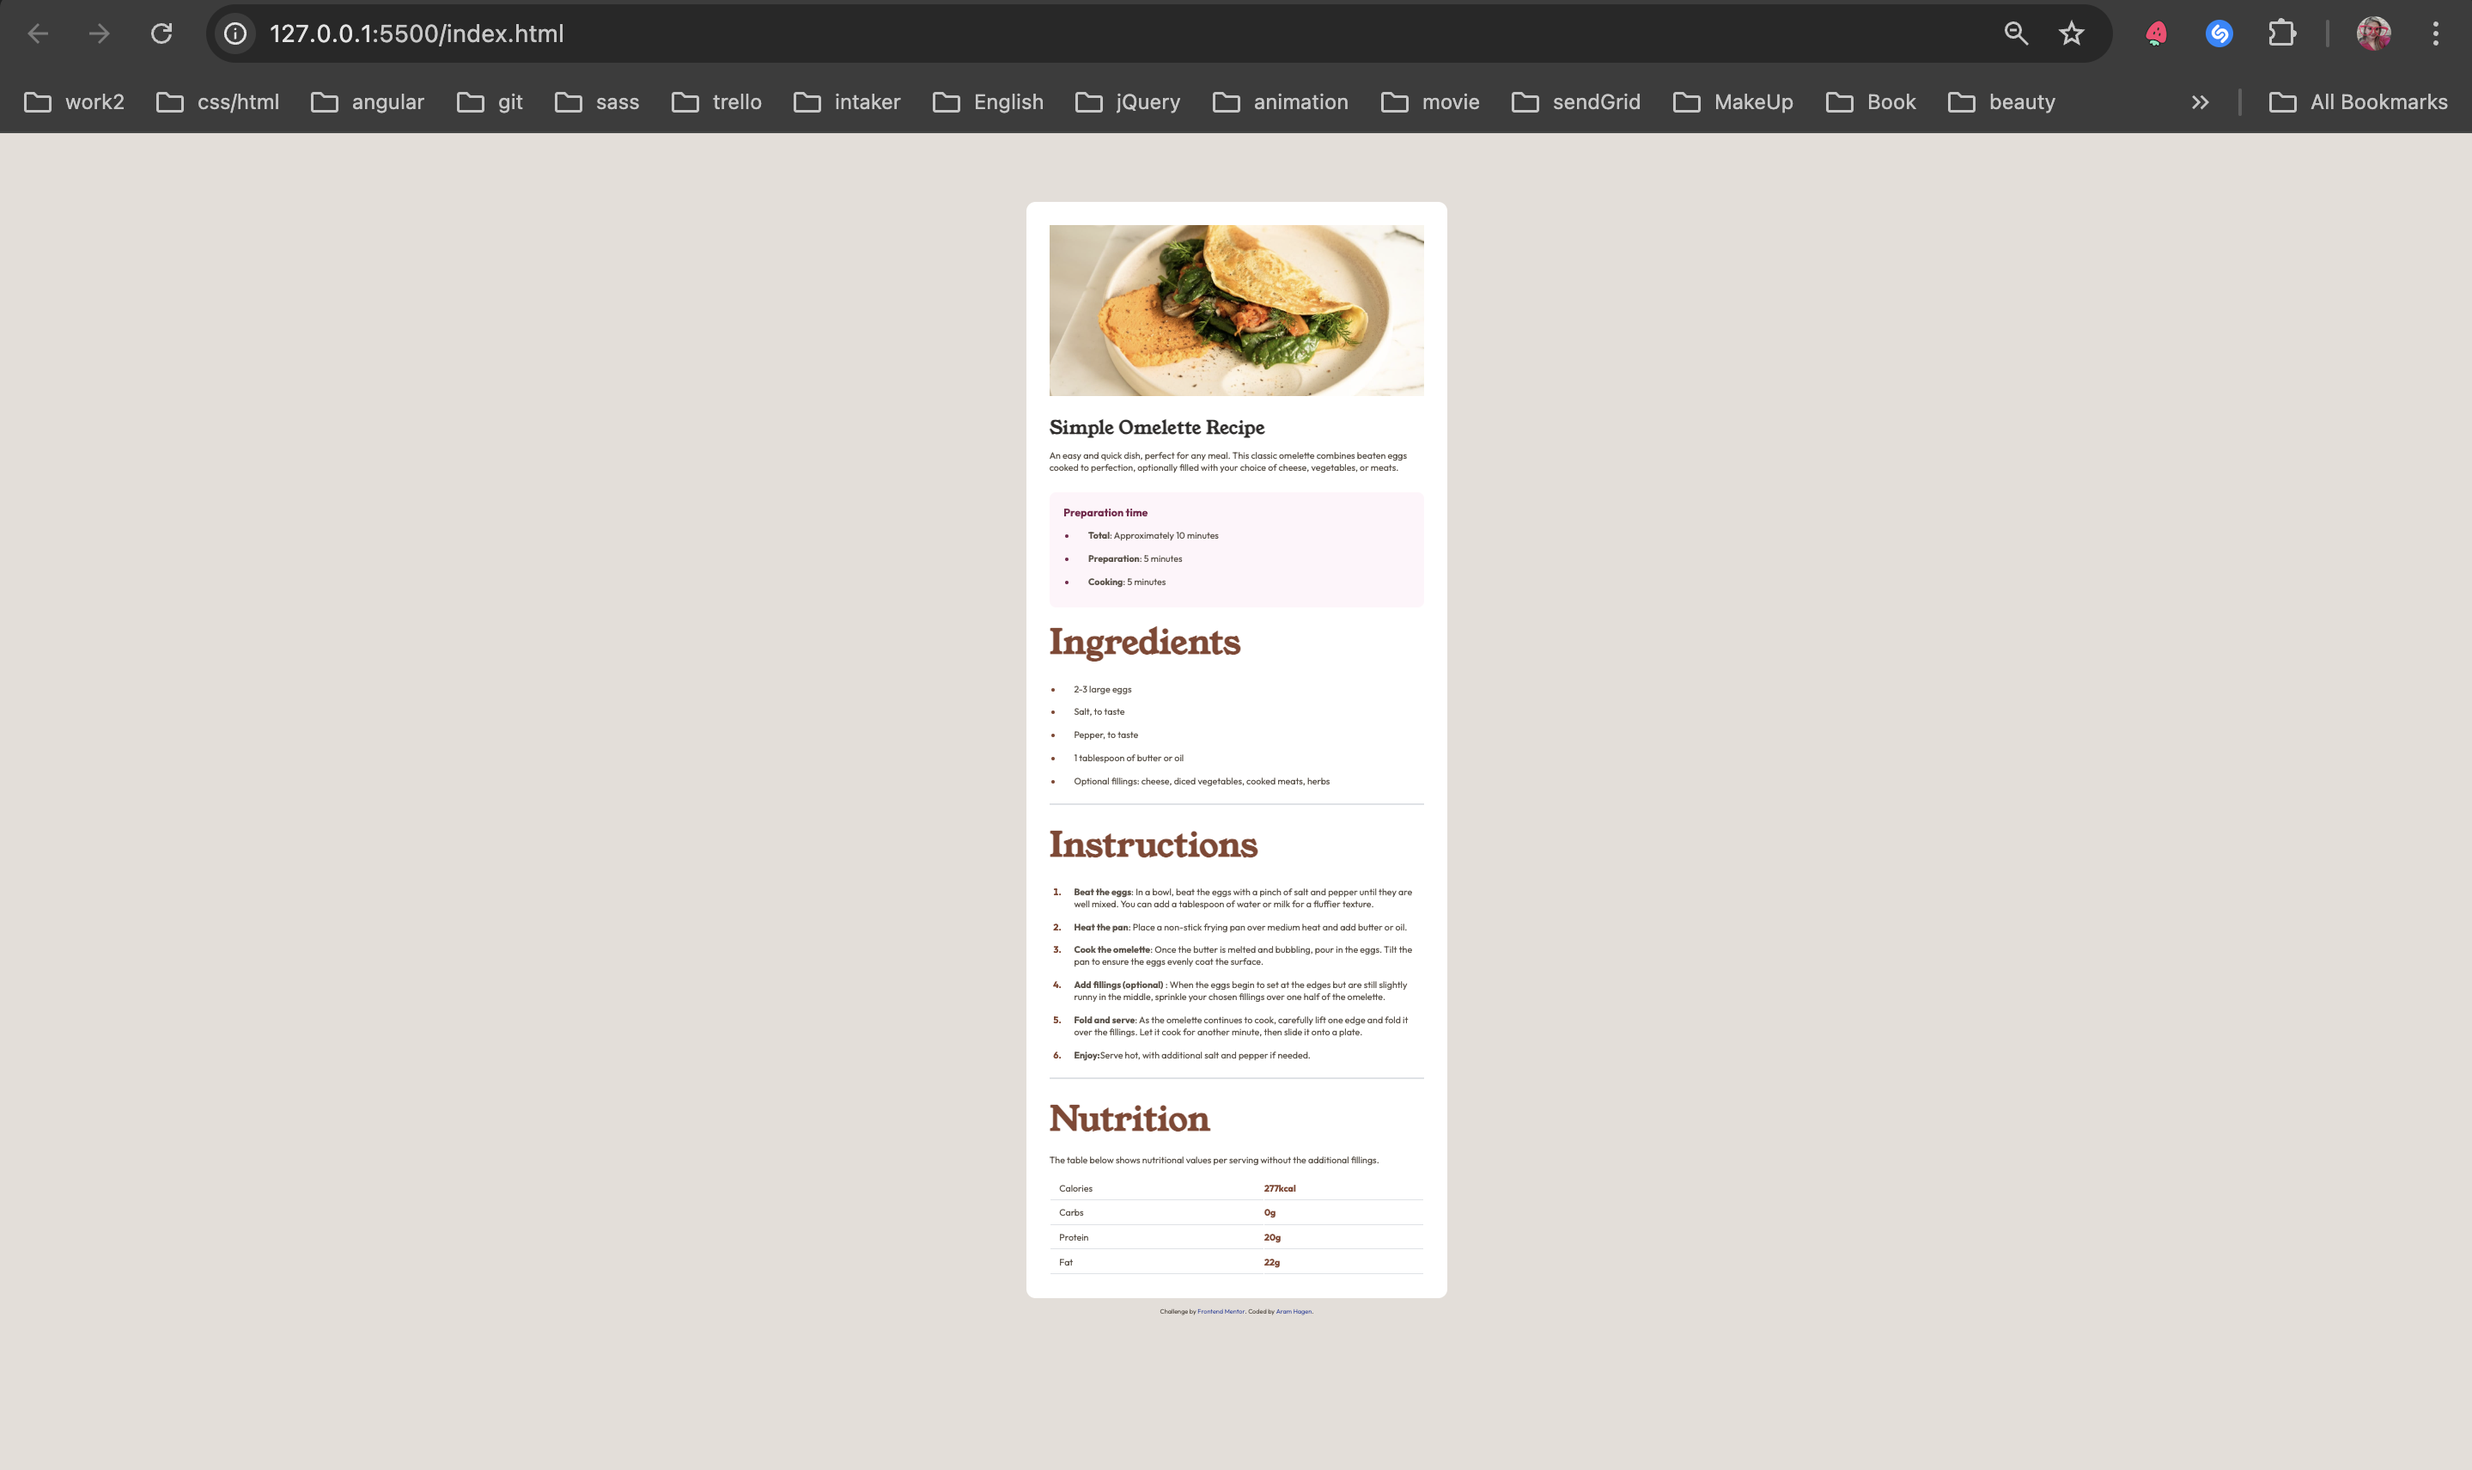
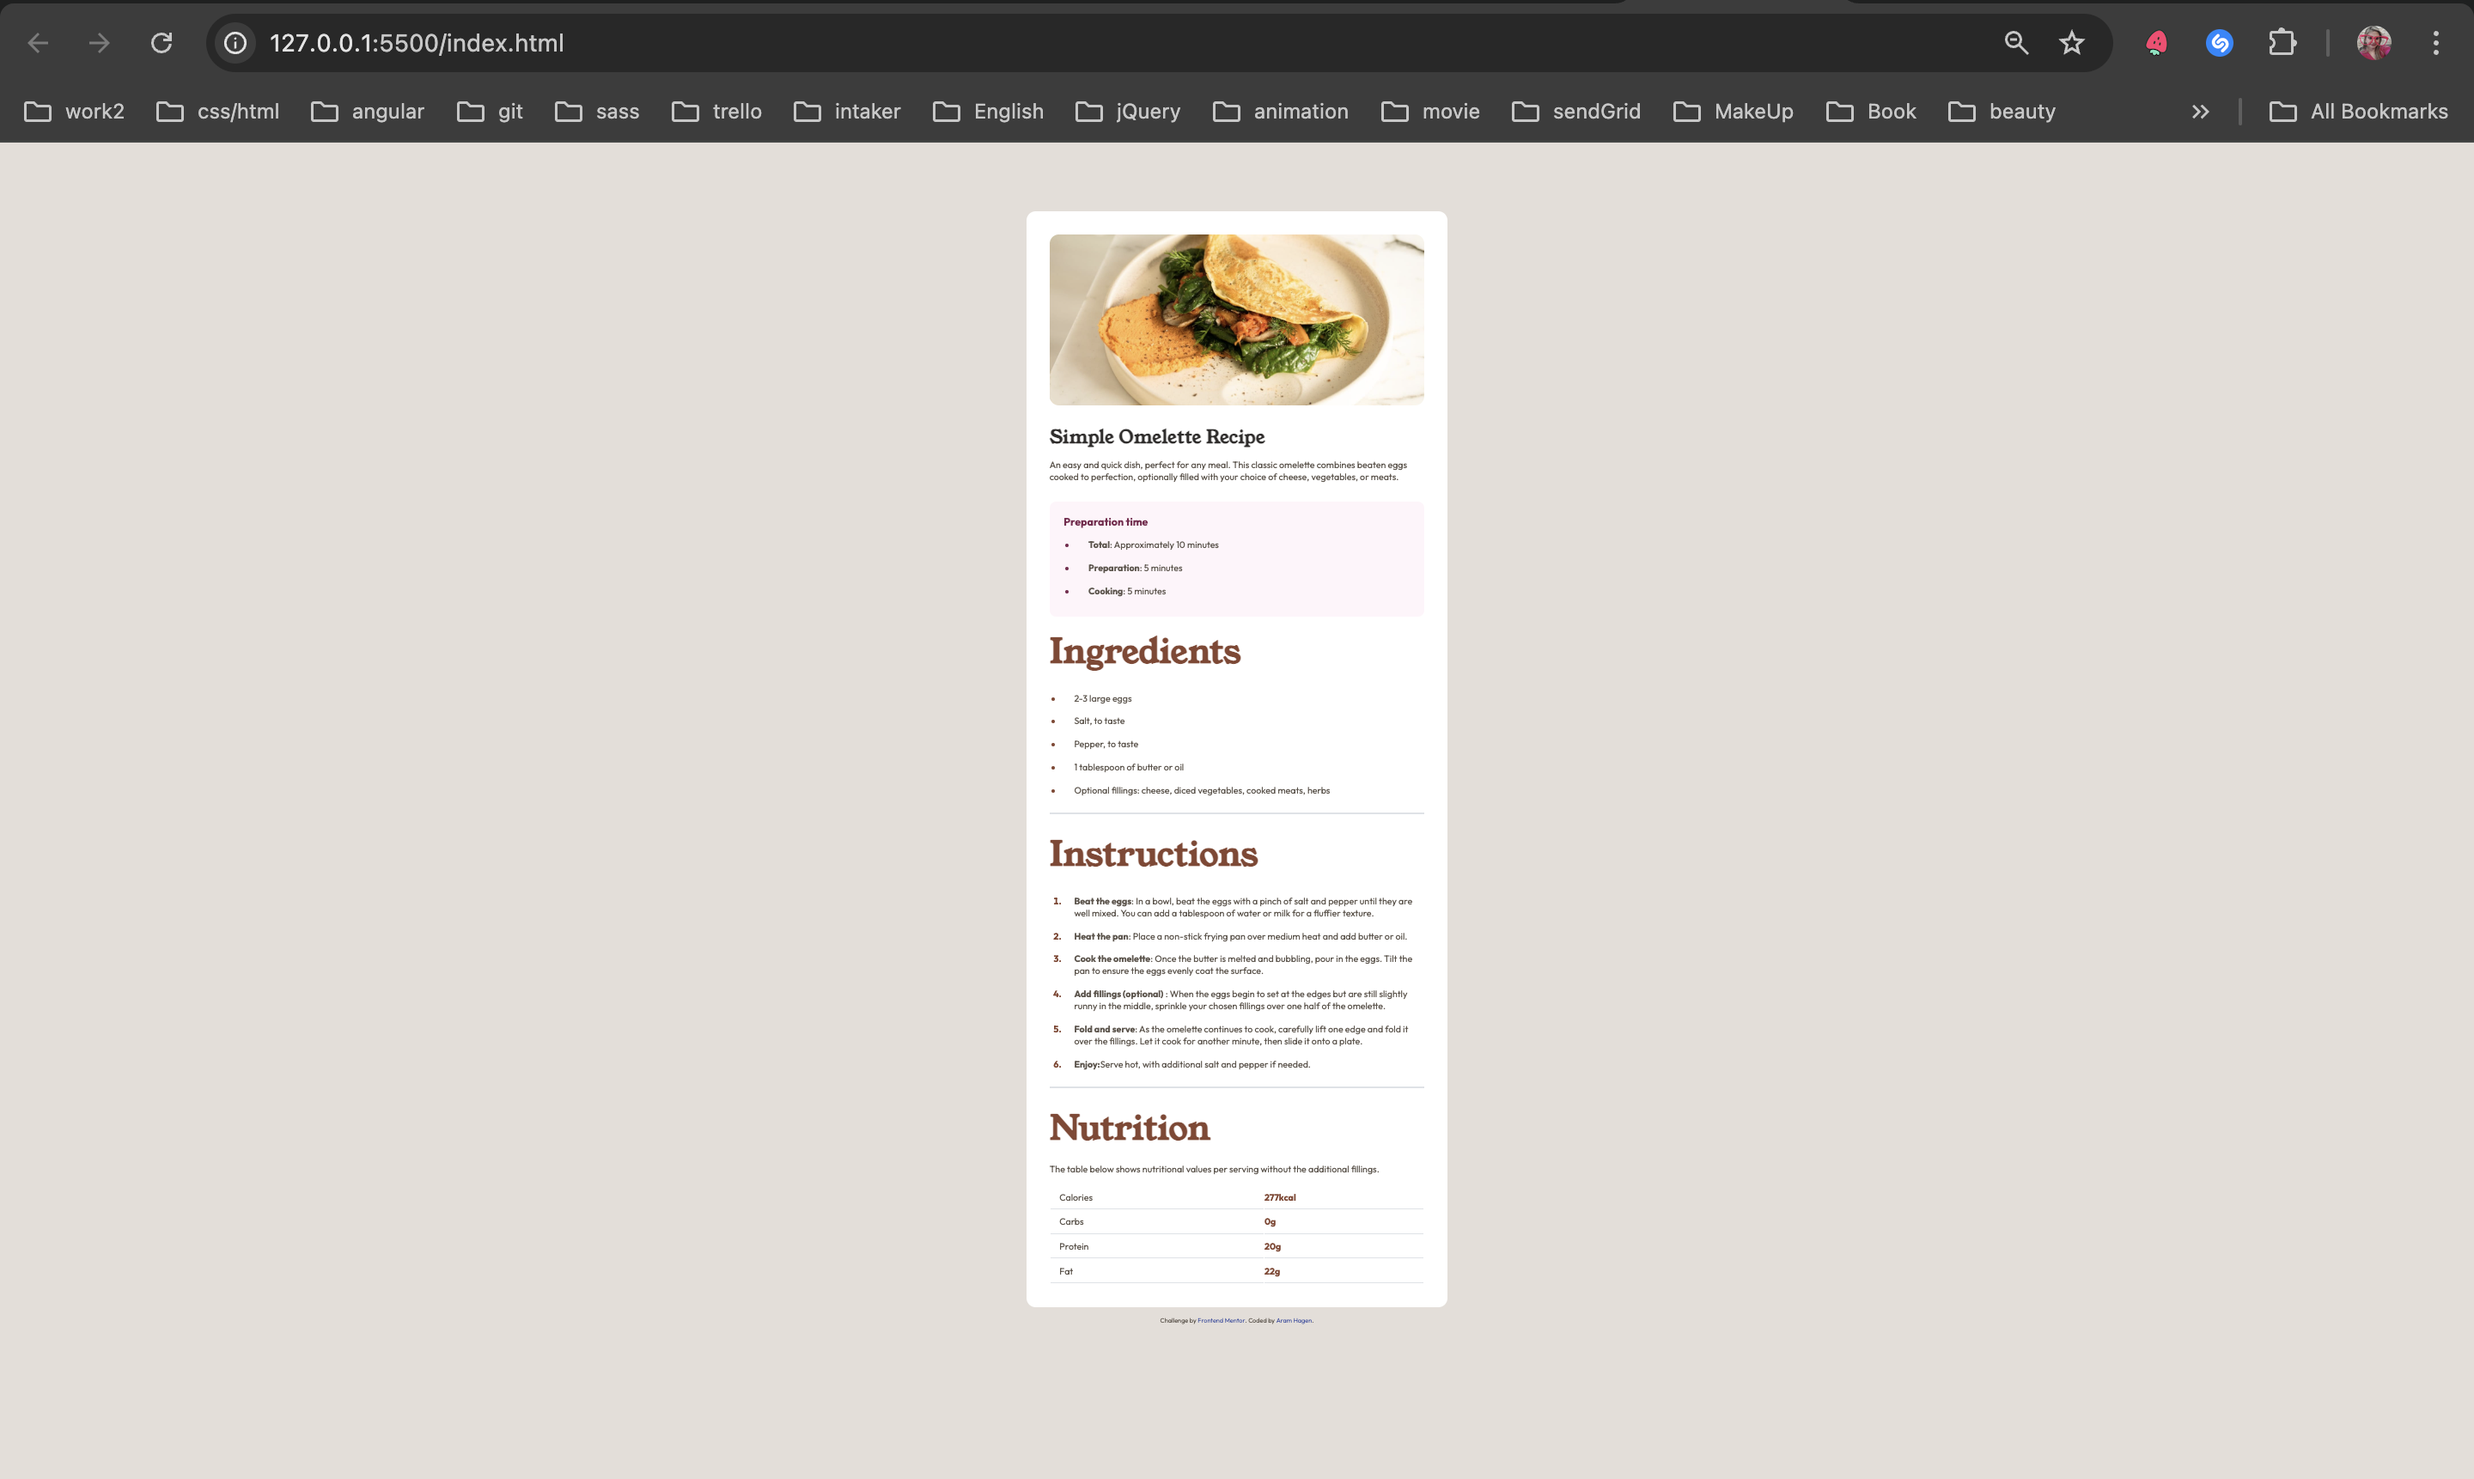
feat: some changes

diff --git a/styles/main.scss b/styles/main.scss
@@ -36,6 +36,7 @@ main {
   &__image {
     width: 100%;
     max-width: 100%;
+    border-radius: 1rem;
   }
   &__title {
     // font-size: calc(1.3rem + 1.5vw);
@@ -145,6 +146,9 @@ hr {
     padding: 0;
     margin-top: 0;
     border-radius: 0;
+    &__image{
+      border-radius: 0;
+    }
     article {
       padding: 0 1.8rem 1.8rem;
     }

diff --git a/dist/main.css b/dist/main.css
@@ -231,6 +231,7 @@ main {
 .recipe__image {
   width: 100%;
   max-width: 100%;
+  border-radius: 1rem;
 }
 .recipe__title {
   font-size: clamp(1rem, 1.3rem + 2vw, 2rem);
@@ -331,6 +332,9 @@ hr {
   .recipe {
     padding: 0;
     margin-top: 0;
+    border-radius: 0;
+  }
+  .recipe__image {
     border-radius: 0;
   }
   .recipe article {

diff --git a/README.md b/README.md
@@ -1,89 +1,42 @@
-# Frontend Mentor - Recipe page
+# Frontend Mentor - Recipe page solution
 
-![Design preview for the Recipe page coding challenge](./preview.jpg)
+This is a solution to the [Recipe page challenge on Frontend Mentor](https://www.frontendmentor.io/challenges/recipe-page-KiTsR8QQKm). Frontend Mentor challenges help you improve your coding skills by building realistic projects. 
 
-## Welcome! 👋
+## Table of contents
 
-Thanks for checking out this front-end coding challenge.
+- [Overview](#overview)
+  - [The challenge](#the-challenge)
+  - [Screenshot](#screenshot)
+  - [Links](#links)
+- [My process](#my-process)
+  - [Built with](#built-with)
+  - [What I learned](#what-i-learned)
 
-[Frontend Mentor](https://www.frontendmentor.io) challenges help you improve your coding skills by building realistic projects.
+## Overview
 
-**To do this challenge, you need a basic understanding of HTML and CSS.**
+### Screenshot
 
-## The challenge
+![](/assets/images/Screenshot-desktop.png)
+![](/assets/images/Screenshot-mobile.png)
 
-Your challenge is to build out this recipe page and get it looking as close to the design as possible.
 
-You can use any tools you like to help you complete the challenge. So if you've got something you'd like to practice, feel free to give it a go.
+### Links
 
-Want some support on the challenge? [Join our community](https://www.frontendmentor.io/community) and ask questions in the **#help** channel.
+- Solution URL: [Add solution URL here](https://github.com/AramHagen/receipt-page)
+- Live Site URL: [Add live site URL here](https://aramhagen.github.io/receipt-page/)
 
-## Where to find everything
+## My process
 
-Your task is to build out the project to the designs inside the `/design` folder. You will find both a mobile and a desktop version of the design. 
+### Built with
 
-The designs are in JPG static format. Using JPGs will mean that you'll need to use your best judgment for styles such as `font-size`, `padding` and `margin`. 
+- Semantic HTML5 markup
+- CSS custom properties (CSS variables)
+- Flexbox
+- CSS Grid
+- Sass (SCSS)
 
-If you would like the design files (we provide Sketch & Figma versions) to inspect the design in more detail, you can [subscribe as a PRO member](https://www.frontendmentor.io/pro).
+### What I learned
+I learned how to use the `&` symbol to import two fonts in my HTML `(family=Outfit:wght@100..900&family=Young+Serif)`. I also learned that the `<link>` approach is faster and more efficient, while using `@import` in CSS introduces delays and additional requests.
 
-All the required assets for this project are in the `/assets` folder. The images are already exported for the correct screen size and optimized.
-
-We also include variable and static font files for the required fonts for this project. You can choose to either link to Google Fonts or use the local font files to host the fonts yourself. Note that we've removed the static font files for the font weights that aren't needed for this project.
-
-There is also a `style-guide.md` file containing the information you'll need, such as color palette and fonts.
-
-## Building your project
-
-Feel free to use any workflow that you feel comfortable with. Below is a suggested process, but do not feel like you need to follow these steps:
-
-1. Initialize your project as a public repository on [GitHub](https://github.com/). Creating a repo will make it easier to share your code with the community if you need help. If you're not sure how to do this, [have a read-through of this Try Git resource](https://try.github.io/).
-2. Configure your repository to publish your code to a web address. This will also be useful if you need some help during a challenge as you can share the URL for your project with your repo URL. There are a number of ways to do this, and we provide some recommendations below.
-3. Look through the designs to start planning out how you'll tackle the project. This step is crucial to help you think ahead for CSS classes to create reusable styles.
-4. Before adding any styles, structure your content with HTML. Writing your HTML first can help focus your attention on creating well-structured content.
-5. Write out the base styles for your project, including general content styles, such as `font-family` and `font-size`.
-6. Start adding styles to the top of the page and work down. Only move on to the next section once you're happy you've completed the area you're working on.
-
-## Deploying your project
-
-As mentioned above, there are many ways to host your project for free. Our recommend hosts are:
-
-- [GitHub Pages](https://pages.github.com/)
-- [Vercel](https://vercel.com/)
-- [Netlify](https://www.netlify.com/)
-
-You can host your site using one of these solutions or any of our other trusted providers. [Read more about our recommended and trusted hosts](https://medium.com/frontend-mentor/frontend-mentor-trusted-hosting-providers-bf000dfebe).
-
-## Create a custom `README.md`
-
-We strongly recommend overwriting this `README.md` with a custom one. We've provided a template inside the [`README-template.md`](./README-template.md) file in this starter code.
-
-The template provides a guide for what to add. A custom `README` will help you explain your project and reflect on your learnings. Please feel free to edit our template as much as you like.
-
-Once you've added your information to the template, delete this file and rename the `README-template.md` file to `README.md`. That will make it show up as your repository's README file.
-
-## Submitting your solution
-
-Submit your solution on the platform for the rest of the community to see. Follow our ["Complete guide to submitting solutions"](https://medium.com/frontend-mentor/a-complete-guide-to-submitting-solutions-on-frontend-mentor-ac6384162248) for tips on how to do this.
-
-Remember, if you're looking for feedback on your solution, be sure to ask questions when submitting it. The more specific and detailed you are with your questions, the higher the chance you'll get valuable feedback from the community.
-
-## Sharing your solution
-
-There are multiple places you can share your solution:
-
-1. Share your solution page in the **#finished-projects** channel of our [community](https://www.frontendmentor.io/community). 
-2. Tweet [@frontendmentor](https://twitter.com/frontendmentor) and mention **@frontendmentor**, including the repo and live URLs in the tweet. We'd love to take a look at what you've built and help share it around.
-3. Share your solution on other social channels like LinkedIn.
-4. Blog about your experience building your project. Writing about your workflow, technical choices, and talking through your code is a brilliant way to reinforce what you've learned. Great platforms to write on are [dev.to](https://dev.to/), [Hashnode](https://hashnode.com/), and [CodeNewbie](https://community.codenewbie.org/).
-
-We provide templates to help you share your solution once you've submitted it on the platform. Please do edit them and include specific questions when you're looking for feedback. 
-
-The more specific you are with your questions the more likely it is that another member of the community will give you feedback.
-
-## Got feedback for us?
-
-We love receiving feedback! We're always looking to improve our challenges and our platform. So if you have anything you'd like to mention, please email hi[at]frontendmentor[dot]io.
-
-This challenge is completely free. Please share it with anyone who will find it useful for practice.
-
-**Have fun building!** 🚀
+- `@import url('https://fonts.googleapis.com/css2?family=Outfit:wght@100..900&family=Young+Serif&display=swap')`; in the CSS file.
+- Adding `<link rel="stylesheet" href="https://fonts.googleapis.com/css2?family=Outfit:wght@100..900&family=Young+Serif&display=swap" />` to the `<head>` tag."
